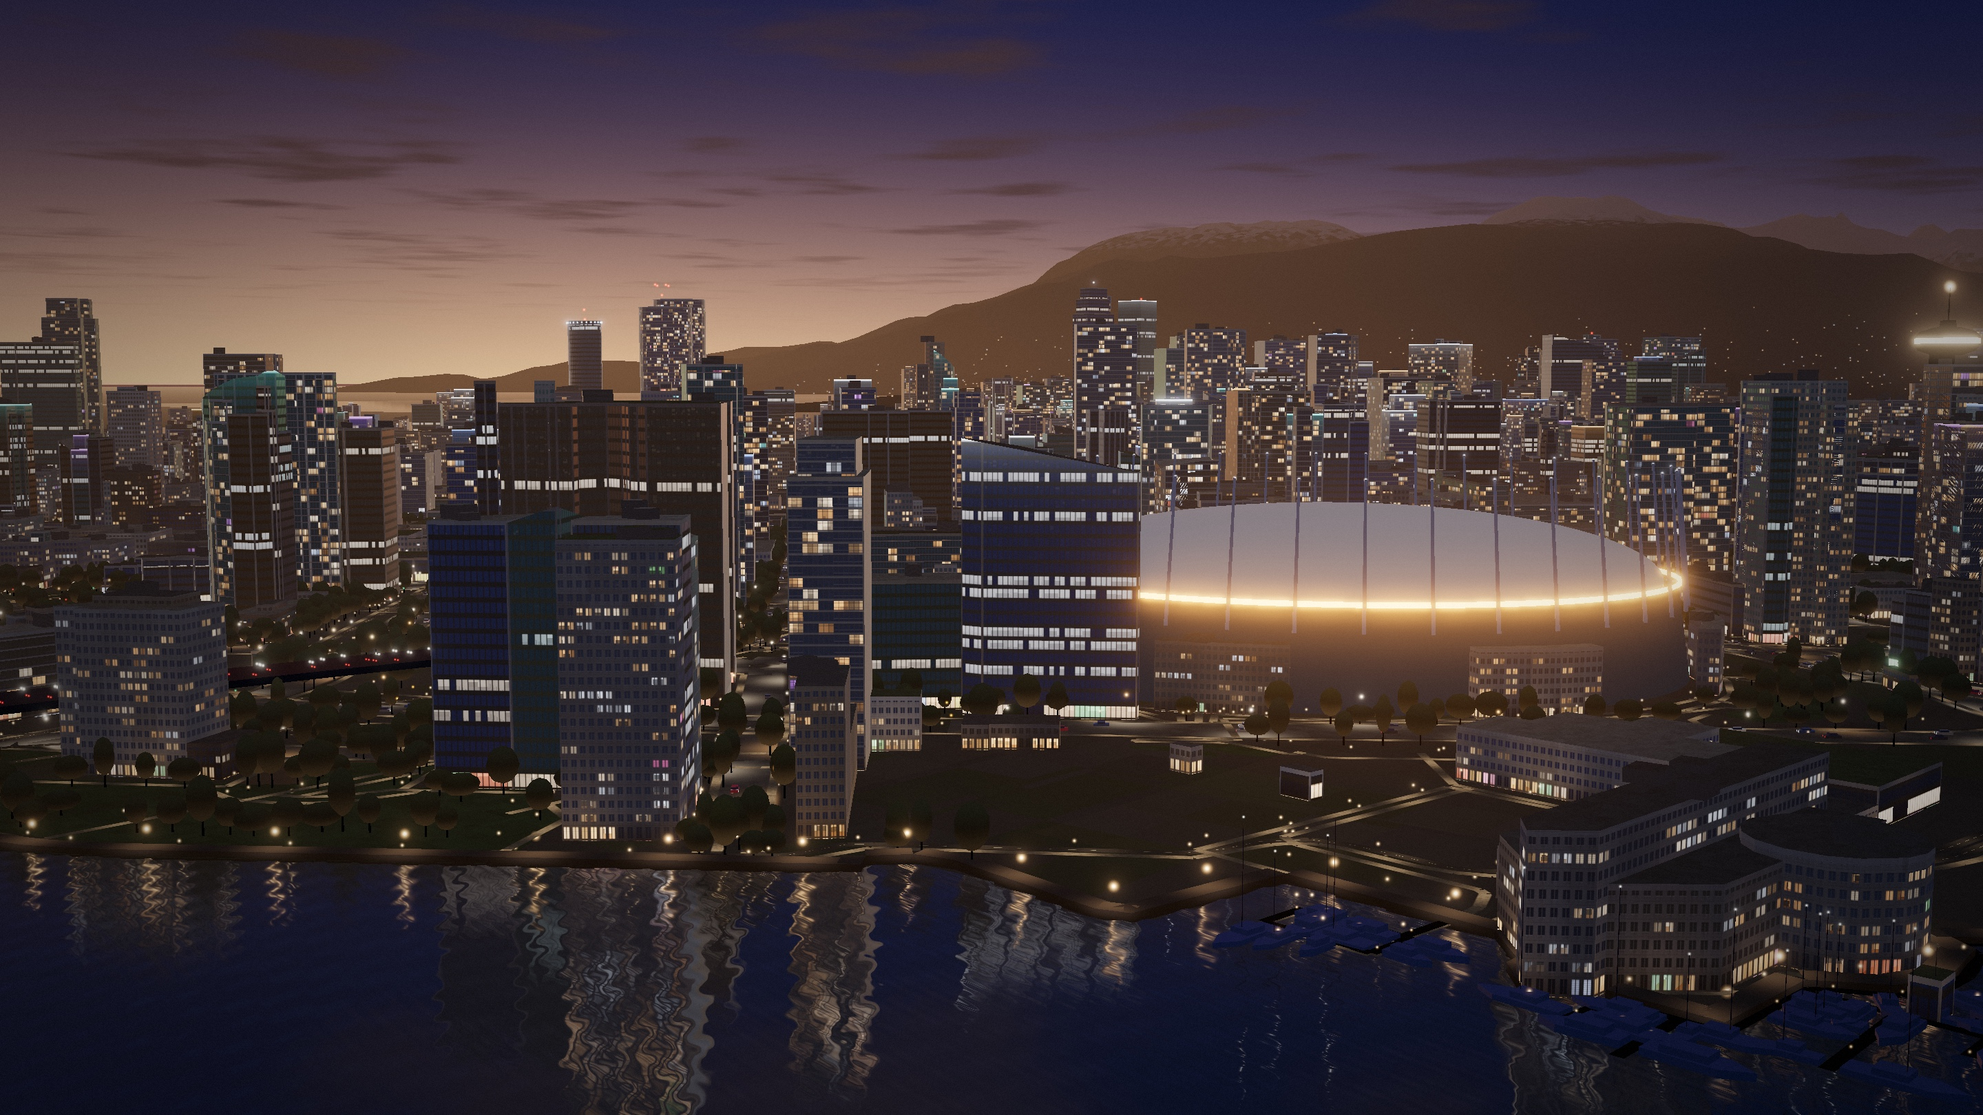
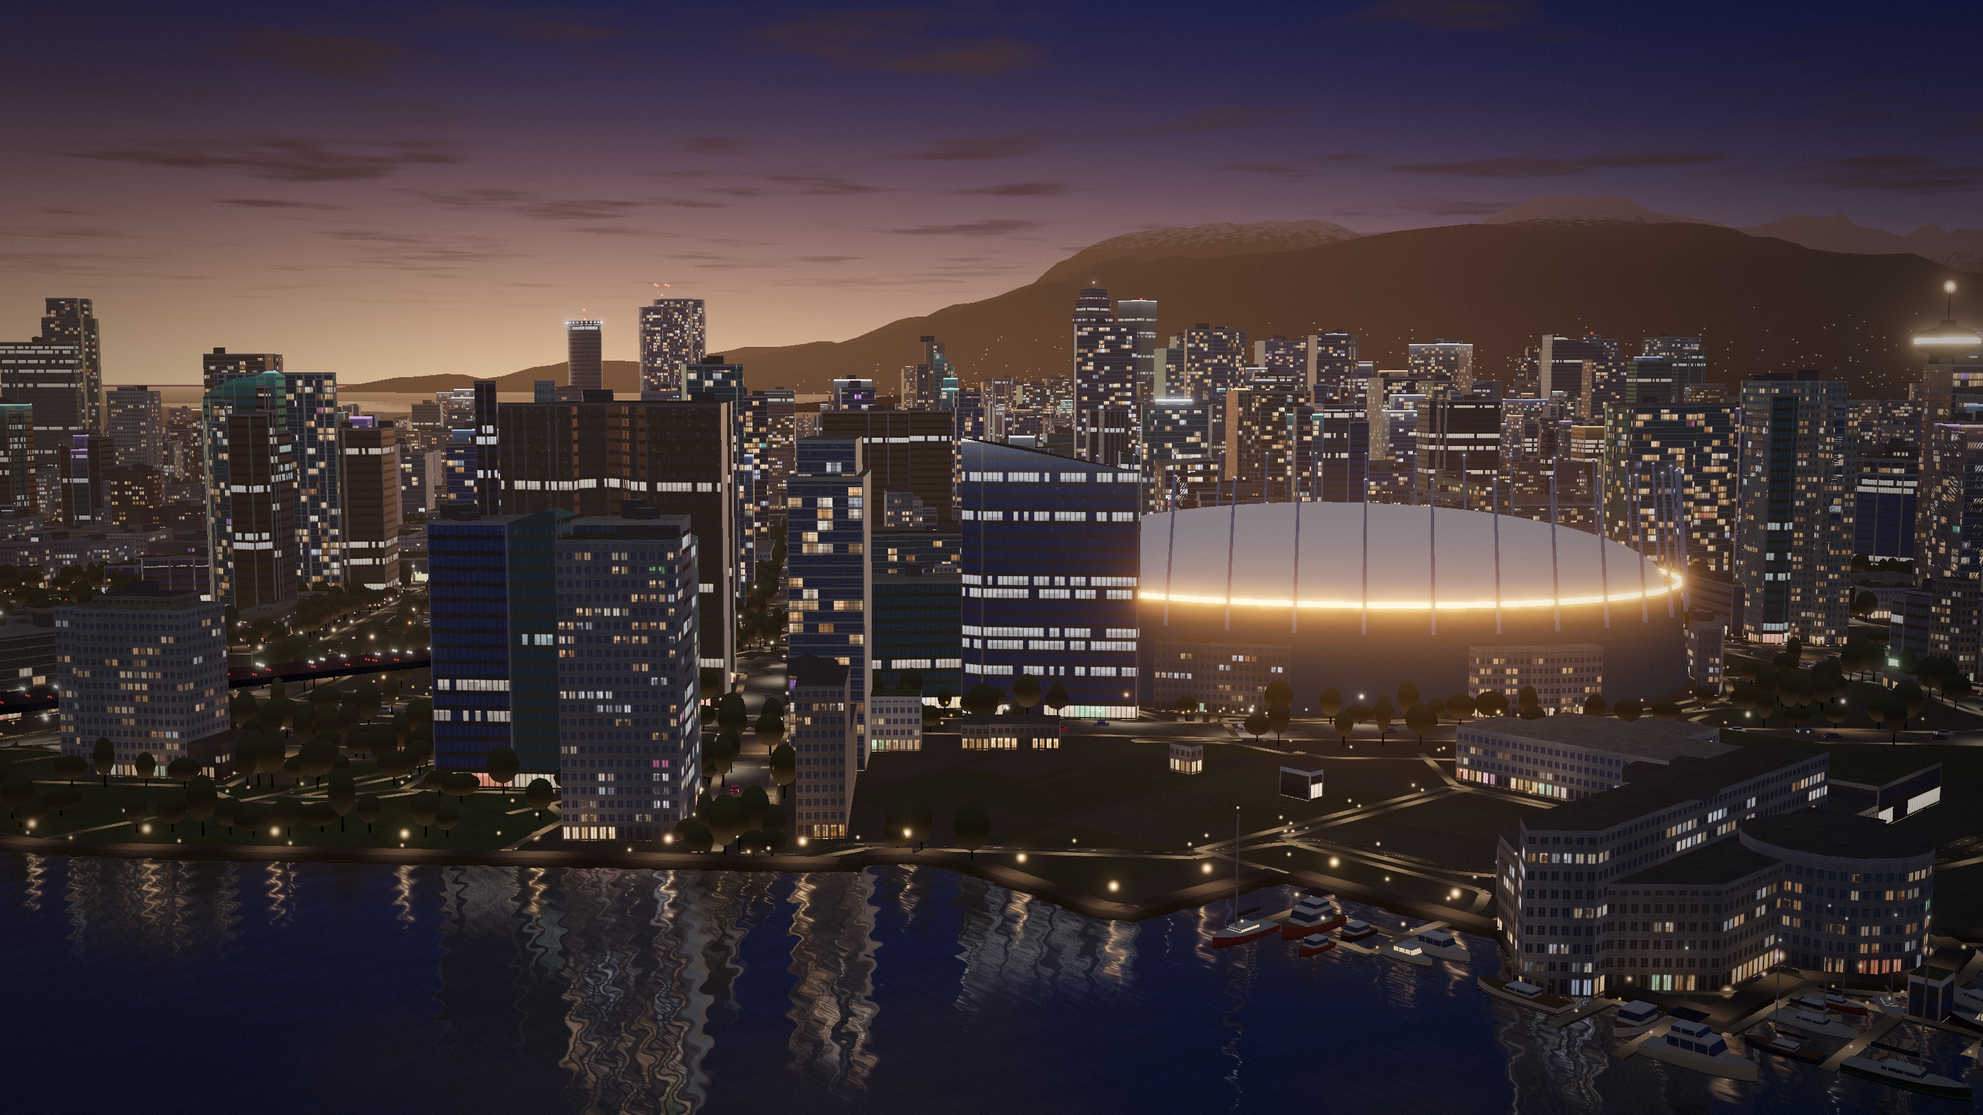
Hero: realistic boats and docks in the marinas
Lofted hulls (pointed bow, transom, rising sheer) in four types: runabout, cabin cruiser,
flybridge yacht and sailboat with mast and boom. Mostly white gelcoat with some coloured
hulls and waterline stripes, glossy sky reflections, cabin windows (some lit), canvas
covers, and a gentle bob at the moorings. Overlapping boats are skipped. Docks get plank
decks, sides and light pools. Posters re-rendered.

Changed region(s): [[0.75, 0.8333, 1.0, 0.9877], [0.5938, 0.8025, 0.75, 0.8951]]

diff --git a/src/hero/boats.js b/src/hero/boats.js
@@ -1,4 +1,6 @@
 import * as THREE from 'three';
+import { mergeGeometries } from 'three/addons/utils/BufferGeometryUtils.js';
+import { skyGlsl, hashGlsl, fogGlsl } from './shaders.js';
 
 /**
  * Marinas and boats on False Creek: dock floats (from OSM), moored boats placed along them by the data
@@ -6,70 +8,318 @@ import * as THREE from 'three';
  * the Aquabus positions are returned so they can be animated later.
  */
 
-/** Hull with a pointed bow: unit length along +x (bow at +0.5), unit beam, unit depth. */
-function hullGeometry() {
-  const s = new THREE.Shape();
-  s.moveTo(-0.5, -0.42); s.lineTo(0.22, -0.5); s.lineTo(0.5, 0); s.lineTo(0.22, 0.5); s.lineTo(-0.5, 0.42); s.closePath();
-  const g = new THREE.ExtrudeGeometry(s, { depth: 1, bevelEnabled: false });
-  g.rotateX(-Math.PI / 2); // shape y → -z, extrusion → +y
-  g.translate(0, -0.35, 0);
+/**
+ * Moored boats are built from four nominal 10 m models (runabout, cabin cruiser, flybridge yacht,
+ * sailboat), each scaled uniformly to the boat's length. Every vertex carries a part id
+ * (0 hull, 1 deck, 2 cabin, 3 canvas, 4 mast/boom) and its model-space position, so one shader can paint
+ * white gelcoat, waterline stripes, cabin windows (some lit) and canvas, and bob the boat on the water.
+ */
+
+const NOMINAL = 10;
+
+/** Lofted hull: pointed bow, flat transom, sheer line rising toward the bow, V bottom. */
+function hullParts({ beam = 3.3, deckStern = 1.0, deckBow = 1.45 } = {}) {
+  const N = 9, half = beam / 2;
+  const stations = [];
+  for (let i = 0; i <= N; i++) {
+    const t = i / N; // 0 stern … 1 bow
+    const w = t < 0.55 ? half * (0.86 + 0.14 * Math.sin((t / 0.55) * Math.PI / 2)) : half * Math.cos(((t - 0.55) / 0.45) * Math.PI / 2) ** 0.75;
+    const x = -NOMINAL / 2 + t * NOMINAL;
+    const sheer = deckStern + (deckBow - deckStern) * t * t;
+    // Section from port deck edge round the keel to starboard deck edge.
+    const sec = [[-w, sheer], [-w * 0.97, 0.35], [-w * 0.75, -0.08], [0, -0.48], [w * 0.75, -0.08], [w * 0.97, 0.35], [w, sheer]];
+    stations.push({ x, w, sheer, sec });
+  }
+  // Hull skin (indexed, smooth normals).
+  const pos = [], idx = [];
+  const M = stations[0].sec.length;
+  for (const st of stations) for (const [z, y] of st.sec) pos.push(st.x, y, z);
+  for (let i = 0; i < N; i++) for (let k = 0; k < M - 1; k++) {
+    const a = i * M + k, b = (i + 1) * M + k;
+    idx.push(a, b, a + 1, b, b + 1, a + 1);
+  }
+  const skin = new THREE.BufferGeometry();
+  skin.setAttribute('position', new THREE.Float32BufferAttribute(pos, 3));
+  skin.setIndex(idx);
+  skin.computeVertexNormals();
+  // Deck: strips across each station pair at sheer height.
+  const dpos = [];
+  for (let i = 0; i < N; i++) {
+    const a = stations[i], b = stations[i + 1];
+    const q = [[a.x, a.sheer, -a.w], [b.x, b.sheer, -b.w], [b.x, b.sheer, b.w], [a.x, a.sheer, a.w]];
+    for (const k of [0, 2, 1, 0, 3, 2]) dpos.push(...q[k]);
+  }
+  const deck = new THREE.BufferGeometry();
+  deck.setAttribute('position', new THREE.Float32BufferAttribute(dpos, 3));
+  deck.computeVertexNormals();
+  // Transom: the flat stern.
+  const st = stations[0], tpos = [];
+  for (let k = 0; k < M - 1; k++) {
+    const [z0, y0] = st.sec[k], [z1, y1] = st.sec[k + 1];
+    tpos.push(st.x, y0, z0, st.x, y1, z1, st.x, st.sheer, 0);
+  }
+  const transom = new THREE.BufferGeometry();
+  transom.setAttribute('position', new THREE.Float32BufferAttribute(tpos, 3));
+  transom.computeVertexNormals();
+  return { skin: skin.toNonIndexed(), deck, transom, stations };
+}
+
+const deckAt = (stations, x) => {
+  const t = Math.min(1, Math.max(0, (x + NOMINAL / 2) / NOMINAL));
+  const st = stations[Math.round(t * (stations.length - 1))];
+  return st.sheer;
+};
+
+/** Box from x0..x1, y0..y1, ±halfZ, with the top front edge pulled back (a raked windscreen). */
+function cabinBox(x0, x1, y0, y1, halfZ, rake = 0) {
+  const g = new THREE.BoxGeometry(x1 - x0, y1 - y0, halfZ * 2).toNonIndexed();
+  g.translate((x0 + x1) / 2, (y0 + y1) / 2, 0);
+  const p = g.attributes.position;
+  for (let i = 0; i < p.count; i++) if (p.getY(i) > y1 - 1e-3 && p.getX(i) > x1 - 1e-3) p.setX(i, x1 - rake);
+  g.computeVertexNormals();
   return g;
 }
 
-export function createBoats(boats, docks, { camera = [0, 0], minDistance = 0, maxDistance = 2400, envMap = null } = {}) {
+/** Marks a piece with its part id and (cabins) the height band of its windows. */
+function tag(g, part, win = [0, 0]) {
+  if (g.attributes.uv) g.deleteAttribute('uv');
+  const n = g.attributes.position.count;
+  g.setAttribute('aPart', new THREE.Float32BufferAttribute(new Array(n).fill(part), 1));
+  g.setAttribute('aWin', new THREE.Float32BufferAttribute(Array.from({ length: n }, () => win).flat(), 2));
+  return g;
+}
+
+function boatModel(type) {
+  const parts = [];
+  if (type === 'sail') {
+    const h = hullParts({ beam: 3.2, deckStern: 0.85, deckBow: 1.2 });
+    parts.push(tag(h.skin, 0), tag(h.transom, 0), tag(h.deck, 1));
+    const d = deckAt(h.stations, 0);
+    parts.push(tag(cabinBox(-1.8, 1.6, d - 0.05, d + 0.62, 0.95, 0.5), 2, [d + 0.2, d + 0.48]));
+    parts.push(tag(cabinBox(0.9, 1.08, d, d + 13.2, 0.07), 4)); // mast
+    parts.push(tag(cabinBox(-3.4, 1.0, d + 1.55, d + 1.68, 0.06), 4)); // boom
+    parts.push(tag(cabinBox(-3.0, 0.9, d + 1.68, d + 2.0, 0.18), 3)); // furled mainsail cover
+  } else if (type === 'runabout') {
+    const h = hullParts({ beam: 3.0, deckStern: 0.75, deckBow: 1.05 });
+    parts.push(tag(h.skin, 0), tag(h.transom, 0), tag(h.deck, 1));
+    const d = deckAt(h.stations, 0);
+    parts.push(tag(cabinBox(-0.6, 0.6, d, d + 0.9, 0.55, 0.3), 2, [d + 0.6, d + 0.9])); // console with windscreen
+    parts.push(tag(cabinBox(-2.6, 0.4, d + 1.75, d + 1.85, 1.2), 3)); // bimini top
+  } else {
+    const fly = type === 'flybridge';
+    const h = hullParts({ beam: 3.5, deckStern: 1.05, deckBow: 1.55 });
+    parts.push(tag(h.skin, 0), tag(h.transom, 0), tag(h.deck, 1));
+    const d = deckAt(h.stations, 0);
+    parts.push(tag(cabinBox(-2.4, 2.2, d - 0.05, d + 1.55, 1.4, 0.9), 2, [d + 0.55, d + 1.35]));
+    if (fly) {
+      parts.push(tag(cabinBox(-2.2, 0.6, d + 1.55, d + 2.25, 1.15, 0.4), 2, [d + 1.8, d + 2.25])); // flybridge
+      parts.push(tag(cabinBox(-2.6, 0.2, d + 3.15, d + 3.25, 1.35), 3)); // bimini over the flybridge
+    }
+  }
+  return mergeGeometries(parts);
+}
+
+function boatMaterial(uniforms) {
+  return new THREE.ShaderMaterial({
+    uniforms,
+    vertexShader: /* glsl */ `
+      uniform float uTime;
+      attribute float aPart; attribute vec2 aWin; attribute vec3 aHull; attribute vec3 aStripe; attribute float aLit; attribute float aPhase;
+      varying vec3 vWorld; varying vec3 vNormal; varying vec3 vLocal; varying float vPart; varying vec2 vWin;
+      varying vec3 vHull; varying vec3 vStripe; varying float vLit; varying float vPhase;
+      void main() {
+        vWin = aWin;
+        // Moored boats bob and roll a little on the ripples.
+        float roll = sin(uTime * 0.9 + aPhase * 6.28) * 0.022;
+        float pitch = sin(uTime * 0.7 + aPhase * 11.0) * 0.008;
+        vec3 p = position;
+        p.yz = mat2(cos(roll), sin(roll), -sin(roll), cos(roll)) * p.yz;
+        p.xy = mat2(cos(pitch), sin(pitch), -sin(pitch), cos(pitch)) * p.xy;
+        p.y += sin(uTime * 1.2 + aPhase * 17.0) * 0.05;
+        vec4 w = modelMatrix * instanceMatrix * vec4(p, 1.0);
+        vWorld = w.xyz; vLocal = position; vPart = aPart;
+        vNormal = normalize(mat3(modelMatrix * instanceMatrix) * normal);
+        vHull = aHull; vStripe = aStripe; vLit = aLit; vPhase = aPhase;
+        gl_Position = projectionMatrix * viewMatrix * w;
+      }
+    `,
+    fragmentShader: /* glsl */ `
+      ${skyGlsl}
+      ${hashGlsl}
+      ${fogGlsl}
+      uniform float uWindowIntensity;
+      varying vec3 vWorld; varying vec3 vNormal; varying vec3 vLocal; varying float vPart; varying vec2 vWin;
+      varying vec3 vHull; varying vec3 vStripe; varying float vLit; varying float vPhase;
+      void main() {
+        vec3 n = normalize(vNormal);
+        vec3 V = normalize(cameraPosition - vWorld);
+        if (dot(n, V) < 0.0) n = -n;
+        float fres = 0.04 + 0.96 * pow(1.0 - max(dot(n, V), 0.0), 5.0);
+        vec3 R = reflect(-V, n); R.y = abs(R.y) * 0.9 + 0.02;
+        vec3 sky = skyColor(R);
+        float y = vLocal.y;
+        vec3 albedo = vec3(0.8);
+        float gloss = 0.5;
+        vec3 emit = vec3(0.0);
+        if (vPart < 0.5) {
+          // Hull: gelcoat colour, a coloured stripe along the waterline, dark antifouling below it.
+          albedo = vHull;
+          float stripe = step(0.18, y) * step(y, 0.36);
+          albedo = mix(albedo, vStripe, stripe);
+          albedo = mix(albedo, vec3(0.04, 0.03, 0.03), step(y, 0.06));
+          gloss = 0.9;
+        } else if (vPart < 1.5) {
+          // Deck: non-skid white, or teak on some boats.
+          albedo = mix(vec3(0.62, 0.62, 0.6), vec3(0.28, 0.17, 0.09), step(0.7, fract(vPhase * 7.0)));
+          gloss = 0.15;
+        } else if (vPart < 2.5) {
+          // Cabin: white, with a band of dark glass (lit warm on some boats).
+          albedo = vec3(0.78, 0.79, 0.8);
+          // Windows: a band of dark glass round the cabin sides and windscreen, split into panes.
+          float side = 1.0 - step(0.6, abs(vNormal.y));
+          float pane = step(0.1, fract(vLocal.x / 1.3 + 0.05));
+          float win = side * step(vWin.x, y) * step(y, vWin.y) * mix(pane, 1.0, step(0.5, abs(vNormal.x)));
+          vec3 glass = vec3(0.004, 0.006, 0.01) + sky * mix(0.25, 0.9, fres);
+          vec3 cabinLight = vec3(1.0, 0.62, 0.3) * 0.9 * uWindowIntensity * vLit;
+          vec3 wcol = glass * (1.0 - vLit * 0.7) + cabinLight;
+          albedo = mix(albedo, vec3(0.0), win);
+          emit = wcol * win;
+          gloss = 0.6;
+        } else if (vPart < 3.5) {
+          albedo = mix(vec3(0.05, 0.07, 0.14), vec3(0.45, 0.43, 0.4), step(0.6, fract(vPhase * 3.0))); // navy or tan canvas
+          gloss = 0.05;
+        } else {
+          albedo = vec3(0.5, 0.52, 0.55); // aluminium mast and boom
+          gloss = 0.7;
+        }
+        // Blue-hour sky light from above, warm marina and street light from the sides.
+        vec3 light = vec3(0.6, 0.66, 0.85) * (0.07 + 0.08 * max(n.y, 0.0)) + vec3(1.0, 0.66, 0.35) * 0.045 * (1.0 - abs(n.y));
+        vec3 col = albedo * light + sky * fres * gloss * 0.6 + emit;
+        gl_FragColor = vec4(applyFog(col, vWorld), 1.0);
+      }
+    `,
+  });
+}
+
+export function createBoats(boats, docks, { camera = [0, 0], minDistance = 0, maxDistance = 2400, uniforms } = {}) {
   const near = (x, y) => { const d = Math.hypot(x - camera[0], y - camera[1]); return d < maxDistance && d > minDistance; };
-  const list = boats.filter((b) => near(b.x, b.y));
+  // Drop boats that would overlap one already placed (oriented-rectangle test, binned on a 20 m grid).
+  const corners = (b) => {
+    const c = Math.cos(b.heading), sn = Math.sin(b.heading), hl = b.length * 0.5, hb = b.length * 0.17;
+    return [[hl, hb], [hl, -hb], [-hl, -hb], [-hl, hb]].map(([u, v]) => [b.x + u * c - v * sn, b.y + u * sn + v * c]);
+  };
+  const separated = (A, B) => {
+    for (const P of [A, B]) for (let i = 0; i < 4; i++) {
+      const [x0, y0] = P[i], [x1, y1] = P[(i + 1) % 4], ax = y0 - y1, ay = x1 - x0;
+      const pa = A.map(([x, y]) => x * ax + y * ay), pb = B.map(([x, y]) => x * ax + y * ay);
+      if (Math.max(...pa) < Math.min(...pb) || Math.max(...pb) < Math.min(...pa)) return true;
+    }
+    return false;
+  };
+  const grid = new Map(), list = [];
+  for (const b of boats) {
+    if (!near(b.x, b.y)) continue;
+    const box = corners(b), gx = Math.floor(b.x / 20), gy = Math.floor(b.y / 20);
+    let clash = false;
+    for (let i = -1; i <= 1 && !clash; i++) for (let j = -1; j <= 1 && !clash; j++) {
+      for (const o of grid.get(`${gx + i},${gy + j}`) ?? []) if (!separated(box, o)) { clash = true; break; }
+    }
+    if (clash) continue;
+    list.push(b);
+    const key = `${gx},${gy}`;
+    if (!grid.has(key)) grid.set(key, []);
+    grid.get(key).push(box);
+  }
   const group = new THREE.Group();
   const lights = [];
-  const white = new THREE.MeshStandardMaterial({ color: 0xdfe3e8, roughness: 0.5, envMap, envMapIntensity: 0.8 });
-  const m = new THREE.Matrix4(), q = new THREE.Quaternion(), up = new THREE.Vector3(0, 1, 0);
-
-  const hulls = new THREE.InstancedMesh(hullGeometry(), white, list.length);
-  const cabins = new THREE.InstancedMesh(new THREE.BoxGeometry(1, 1, 1), white, list.length);
-  const sails = list.filter((b) => b.sail);
-  const masts = new THREE.InstancedMesh(new THREE.CylinderGeometry(0.06, 0.09, 1, 4), new THREE.MeshStandardMaterial({ color: 0xb8bec6, roughness: 0.4 }), sails.length);
-  let seed = 17, mi = 0;
+  let seed = 17;
   const rand = () => ((seed = (seed * 1664525 + 1013904223) >>> 0) / 4294967296);
-  list.forEach((b, i) => {
-    q.setFromAxisAngle(up, b.heading);
-    const beam = b.length * 0.32;
-    m.compose(new THREE.Vector3(b.x, 0.25, -b.y), q, new THREE.Vector3(b.length, b.sail ? 1.1 : 1.6, beam));
-    hulls.setMatrixAt(i, m);
-    const cabinLen = b.length * (b.sail ? 0.3 : 0.45);
-    const back = new THREE.Vector3(-b.length * 0.1, 0, 0).applyQuaternion(q);
-    m.compose(new THREE.Vector3(b.x + back.x, 1.6, -b.y + back.z), q, new THREE.Vector3(cabinLen, b.sail ? 1.0 : 1.8, beam * 0.75));
-    cabins.setMatrixAt(i, m);
-    if (b.sail) {
-      const h = b.length * 1.3;
-      m.compose(new THREE.Vector3(b.x, 1 + h / 2, -b.y), new THREE.Quaternion(), new THREE.Vector3(1, h, 1));
-      masts.setMatrixAt(mi++, m);
-      lights.push({ p: [b.x, 1.2 + h, -b.y], color: [3.2, 3.2, 3.0], size: 0.25 }); // anchor light
-    }
-    if (rand() < 0.18) lights.push({ p: [b.x + back.x, 2.2, -b.y + back.z], color: [3.5, 2.1, 0.9], size: 0.45 }); // someone aboard
-  });
-  group.add(hulls, cabins, masts);
+  const typeOf = (b) => (b.sail ? 'sail' : b.length > 13 ? 'flybridge' : b.length < 8 ? 'runabout' : 'cruiser');
+  const hulls = [[0.8, 0.81, 0.82], [0.8, 0.81, 0.82], [0.8, 0.81, 0.82], [0.8, 0.81, 0.82], [0.8, 0.81, 0.82], [0.8, 0.81, 0.82], [0.8, 0.81, 0.82], [0.8, 0.81, 0.82],
+    [0.05, 0.07, 0.16], [0.05, 0.12, 0.08], [0.74, 0.7, 0.6], [0.04, 0.04, 0.045], [0.5, 0.07, 0.06]];
+  const stripes = [[0.05, 0.08, 0.2], [0.04, 0.04, 0.05], [0.55, 0.08, 0.06], [0.05, 0.3, 0.35], [0.12, 0.2, 0.45]];
+  const material = boatMaterial(uniforms);
+  const m = new THREE.Matrix4(), q = new THREE.Quaternion(), up = new THREE.Vector3(0, 1, 0);
+  for (const type of ['runabout', 'cruiser', 'flybridge', 'sail']) {
+    const these = list.filter((b) => typeOf(b) === type);
+    if (!these.length) continue;
+    const geo = boatModel(type);
+    const hull = new Float32Array(these.length * 3), stripe = new Float32Array(these.length * 3), lit = new Float32Array(these.length), phase = new Float32Array(these.length);
+    const mesh = new THREE.InstancedMesh(geo, material, these.length);
+    these.forEach((b, i) => {
+      const s = b.length / NOMINAL;
+      q.setFromAxisAngle(up, b.heading);
+      m.compose(new THREE.Vector3(b.x, 0.1, -b.y), q, new THREE.Vector3(s, s, s));
+      mesh.setMatrixAt(i, m);
+      const hc = hulls[Math.floor(rand() * hulls.length)];
+      hull.set(hc, i * 3);
+      stripe.set(rand() < 0.35 ? hc : stripes[Math.floor(rand() * stripes.length)], i * 3);
+      lit[i] = type !== 'runabout' && rand() < 0.2 ? 0.6 + rand() * 0.4 : 0;
+      phase[i] = rand();
+      if (type === 'sail') lights.push({ p: [b.x + Math.cos(b.heading) * s, 1.2 + 14.2 * s, -(b.y + Math.sin(b.heading) * s)], color: [3.2, 3.2, 3.0], size: 0.25 }); // anchor light
+      if (lit[i]) lights.push({ p: [b.x, (type === 'flybridge' ? 2.6 : 2.0) * s, -b.y], color: [3.0, 1.9, 0.9], size: 0.35 });
+    });
+    geo.setAttribute('aHull', new THREE.InstancedBufferAttribute(hull, 3));
+    geo.setAttribute('aStripe', new THREE.InstancedBufferAttribute(stripe, 3));
+    geo.setAttribute('aLit', new THREE.InstancedBufferAttribute(lit, 1));
+    geo.setAttribute('aPhase', new THREE.InstancedBufferAttribute(phase, 1));
+    mesh.computeBoundingSphere();
+    group.add(mesh);
+  }
 
-  // Dock floats: thin flat strips along each dock line.
-  const pos = [];
+  // Dock floats: plank decks with a darker skirt, pools of light under the dock lamps (every 30 m).
+  const pos = [], along = [], part = [];
   for (const line of docks) {
     if (!line.every(([x, y]) => near(x, y))) continue;
+    let cum = 0;
     for (let i = 1; i < line.length; i++) {
       const [ax, ay] = line[i - 1], [bx, by] = line[i];
       const len = Math.hypot(bx - ax, by - ay) || 1;
       const nx = (-(by - ay) / len) * 1.2, ny = ((bx - ax) / len) * 1.2;
-      const v = [[ax + nx, ay + ny], [bx + nx, by + ny], [bx - nx, by - ny], [ax - nx, ay - ny]].map(([x, y]) => [x, 0.45, -y]);
-      for (const k of [0, 1, 2, 0, 2, 3]) pos.push(...v[k]);
+      const top = [[ax + nx, ay + ny, cum], [bx + nx, by + ny, cum + len], [bx - nx, by - ny, cum + len], [ax - nx, ay - ny, cum]];
+      for (const k of [0, 1, 2, 0, 2, 3]) { const [x, y, a] = top[k]; pos.push(x, 0.5, -y); along.push(a); part.push(0); }
+      for (const [p0, p1] of [[top[0], top[1]], [top[2], top[3]]]) {
+        const v = [[p0[0], 0.5, p0[1], p0[2]], [p1[0], 0.5, p1[1], p1[2]], [p1[0], 0.05, p1[1], p1[2]], [p0[0], 0.05, p0[1], p0[2]]];
+        for (const k of [0, 1, 2, 0, 2, 3]) { const [x, h, y, a] = v[k]; pos.push(x, h, -y); along.push(a); part.push(1); }
+      }
       for (let s = 10; s < len; s += 30) {
         const t = s / len;
         lights.push({ p: [ax + (bx - ax) * t, 1.1, -(ay + (by - ay) * t)], color: [2.6, 1.7, 0.8], size: 0.3 });
       }
+      cum += len;
     }
   }
   const dockGeo = new THREE.BufferGeometry();
   dockGeo.setAttribute('position', new THREE.Float32BufferAttribute(pos, 3));
-  dockGeo.computeVertexNormals();
-  group.add(new THREE.Mesh(dockGeo, new THREE.MeshLambertMaterial({ color: 0x2a2826, side: THREE.DoubleSide })));
-  return { group, lights, stats: { boats: list.length, sail: sails.length } };
+  dockGeo.setAttribute('aAlong', new THREE.Float32BufferAttribute(along, 1));
+  dockGeo.setAttribute('aPart', new THREE.Float32BufferAttribute(part, 1));
+  const dockMat = new THREE.ShaderMaterial({
+    uniforms,
+    side: THREE.DoubleSide,
+    vertexShader: /* glsl */ `
+      attribute float aAlong; attribute float aPart;
+      varying vec3 vWorld; varying float vAlong; varying float vPart;
+      void main() { vec4 w = modelMatrix * vec4(position, 1.0); vWorld = w.xyz; vAlong = aAlong; vPart = aPart; gl_Position = projectionMatrix * viewMatrix * w; }
+    `,
+    fragmentShader: /* glsl */ `
+      ${skyGlsl}
+      ${hashGlsl}
+      ${fogGlsl}
+      varying vec3 vWorld; varying float vAlong; varying float vPart;
+      void main() {
+        // Weathered planks across the float, lit by the dock lamps.
+        float plank = 0.85 + 0.15 * step(0.12, fract(vAlong / 0.32)) * (0.8 + 0.4 * hash12(vec2(floor(vAlong / 0.32), 3.0)));
+        vec3 wood = vec3(0.07, 0.062, 0.055) * plank;
+        float d = mod(vAlong - 10.0, 30.0); d = min(d, 30.0 - d);
+        float pool = exp(-d * d / (2.0 * 4.0 * 4.0));
+        vec3 col = wood * (0.6 + 2.6 * pool * vec3(1.0, 0.75, 0.5));
+        col = mix(col, vec3(0.02, 0.022, 0.025) * (0.6 + pool), vPart);
+        gl_FragColor = vec4(applyFog(col, vWorld), 1.0);
+      }
+    `,
+  });
+  group.add(new THREE.Mesh(dockGeo, dockMat));
+  return { group, lights, stats: { boats: list.length, sail: list.filter((b) => b.sail).length } };
 }
 
 /** Rainbow stripes for the Aquabus hull sides. */

diff --git a/src/hero/scene.js b/src/hero/scene.js
@@ -291,7 +291,7 @@ export async function createSkylineScene({ canvas, width, height, layout = 'desk
 
   // Keep the water right below the camera calm (it holds the headline on phones): no boats within 220 m.
   await breathe();
-  const boats = createBoats(data.boats, data.docks, { camera: CAMERA_POSITION, minDistance: 220, maxDistance: detail.boatDistance, envMap });
+  const boats = createBoats(data.boats, data.docks, { camera: CAMERA_POSITION, minDistance: 220, maxDistance: detail.boatDistance, uniforms });
   scene.add(boats.group);
   addLights(boats.lights, 2);
   // Two Aquabus ferries crossing False Creek in the foreground: candidate crossings (bearing/distance
